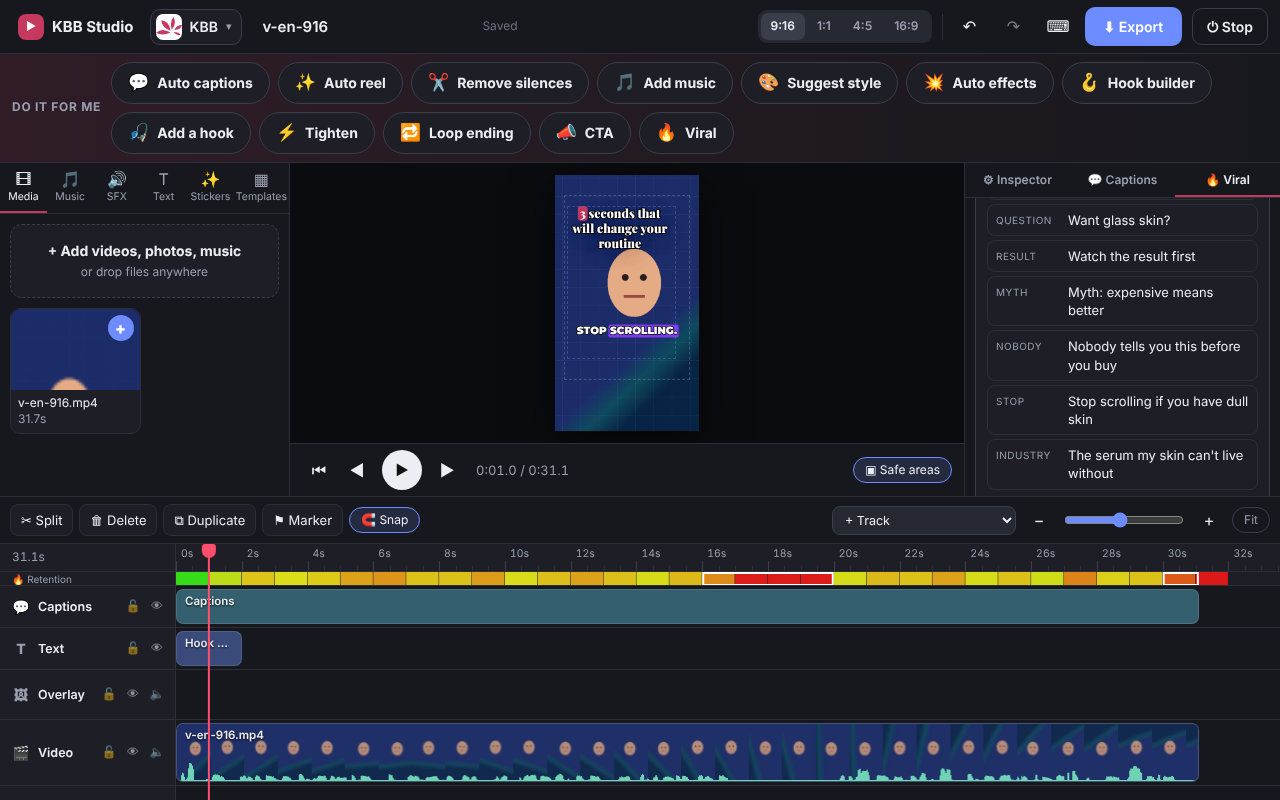
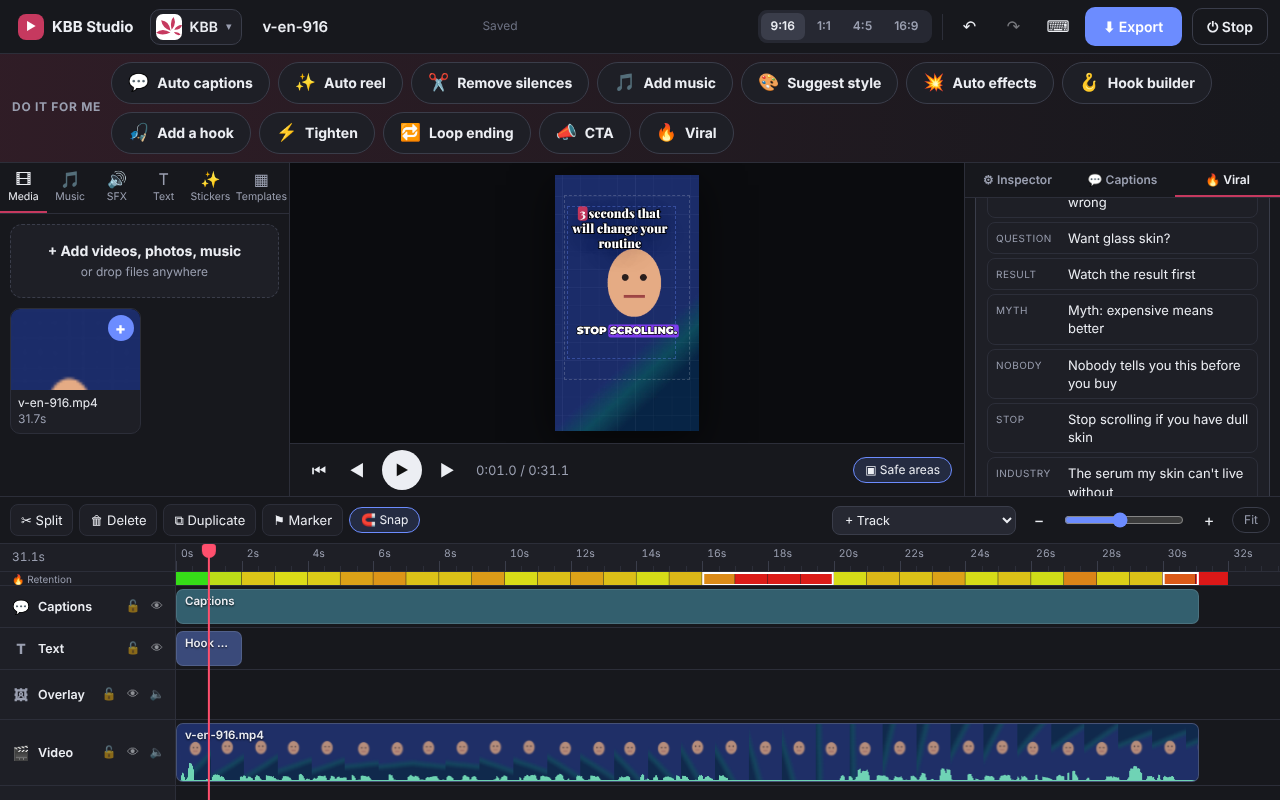
KBB Studio viral: hook lines read naturally for visas and beauty (mistake / curiosity families); fresh screenshots
Claude-Session: https://claude.ai/code/session_01YFPqRcei6ARXFZpX54gQ57

Changed region(s): [[0.7812, 0.25, 0.9688, 0.5312], [0.7812, 0.5625, 0.9688, 0.625]]

diff --git a/studio/reel-studio/app/viral/lib/hooklines.js b/studio/reel-studio/app/viral/lib/hooklines.js
@@ -69,10 +69,10 @@ export function hookLines({ words = [], workspace = null, lang = 'auto', seed = 
   const n = t.num && t.num < 1000 ? t.num : (ind === 'visa' ? 3 : 7);
   const topic = ind === 'visa' ? (en ? `studying in ${country}` : `الدراسة في ${country}`) : ind === 'beauty' ? prod : kw;
   const T = en ? {
-    curiosity: [`I tried ${ind === 'beauty' ? 'this ' + prod : topic} so you don't have to`, `This changed everything about ${topic}`, `The ${topic} secret nobody shares`],
+    curiosity: [ind === 'visa' ? `What studying in ${country} really takes` : `I tried ${ind === 'beauty' ? 'this ' + prod : topic} so you don't have to`, `This changed everything about ${topic}`, `The ${topic} secret nobody shares`],
     number: [`${n} things I wish I knew about ${topic}`, `${n} seconds that will change your ${ind === 'beauty' ? 'routine' : 'plans'}`, `${n} mistakes with ${topic}`],
     pov: [`POV: you finally found the right ${ind === 'beauty' ? prod : ind === 'visa' ? 'consultant' : kw}`, `POV: ${ind === 'visa' ? `your ${country} visa just got approved` : 'your skin after 7 days'}`],
-    mistake: [`Stop making this ${topic} mistake`, `You're doing ${topic} wrong`],
+    mistake: ind === 'visa' ? [`The ${country} visa mistake everyone makes`, `Stop making this visa mistake`] : ind === 'beauty' ? [`Stop making this ${prod} mistake`, `You're using your ${prod} wrong`] : [`Stop making this ${kw} mistake`, `You're doing ${kw} wrong`],
     question: [`Want ${ind === 'visa' ? `to study in ${country}` : ind === 'beauty' ? 'glass skin' : `better ${kw}`}?`, `Why does nobody talk about ${topic}?`],
     result: [ind === 'visa' ? `Approved in weeks — here's how` : ind === 'beauty' ? `Brighter skin in ${n} days — here's how` : `Here's the result first`, `Watch the result first`],
     myth: [`Myth: ${ind === 'visa' ? 'you need to be rich to study abroad' : ind === 'beauty' ? 'expensive means better' : `${kw} is hard`}`, `The biggest ${topic} myth`],
